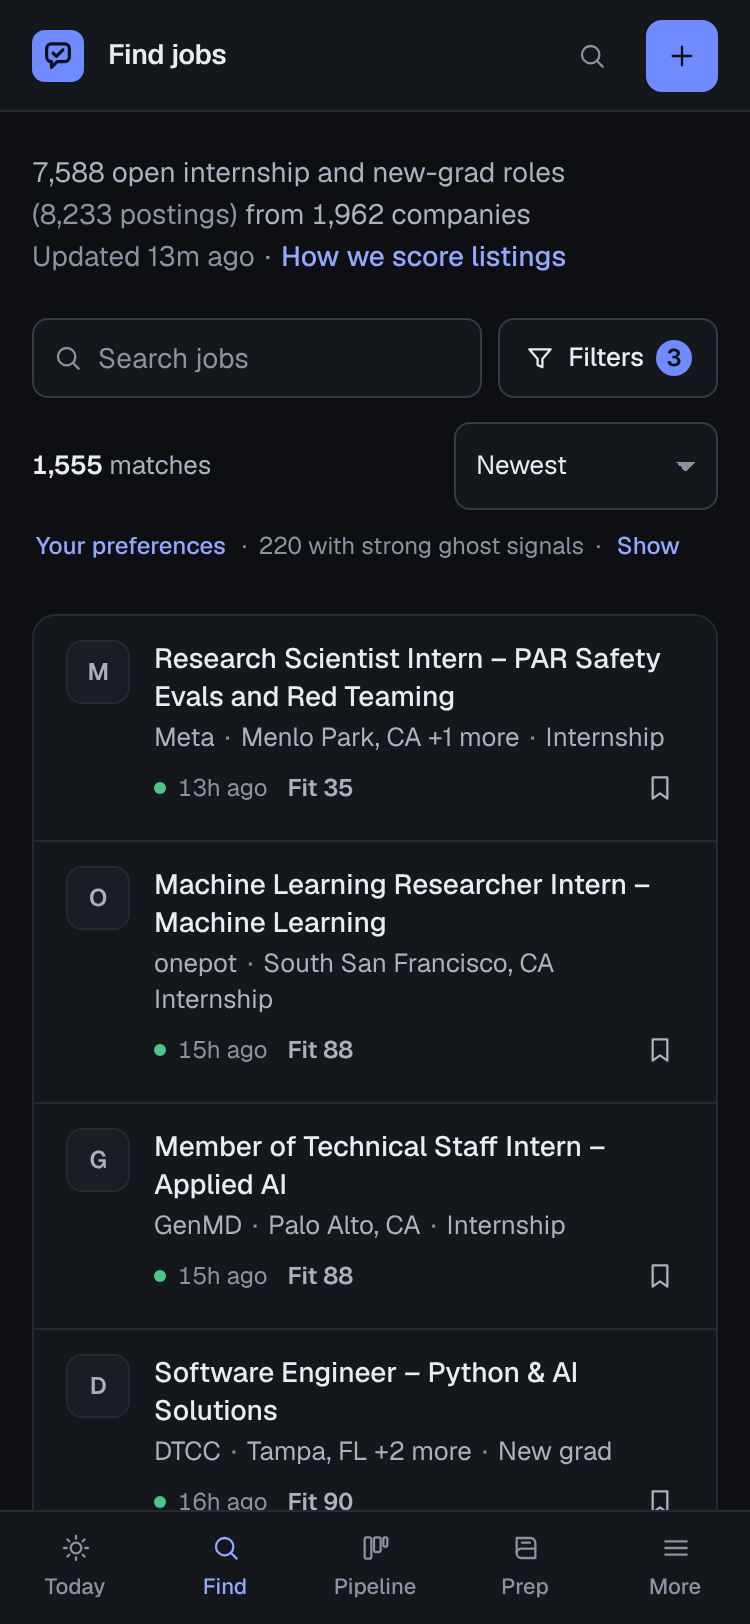
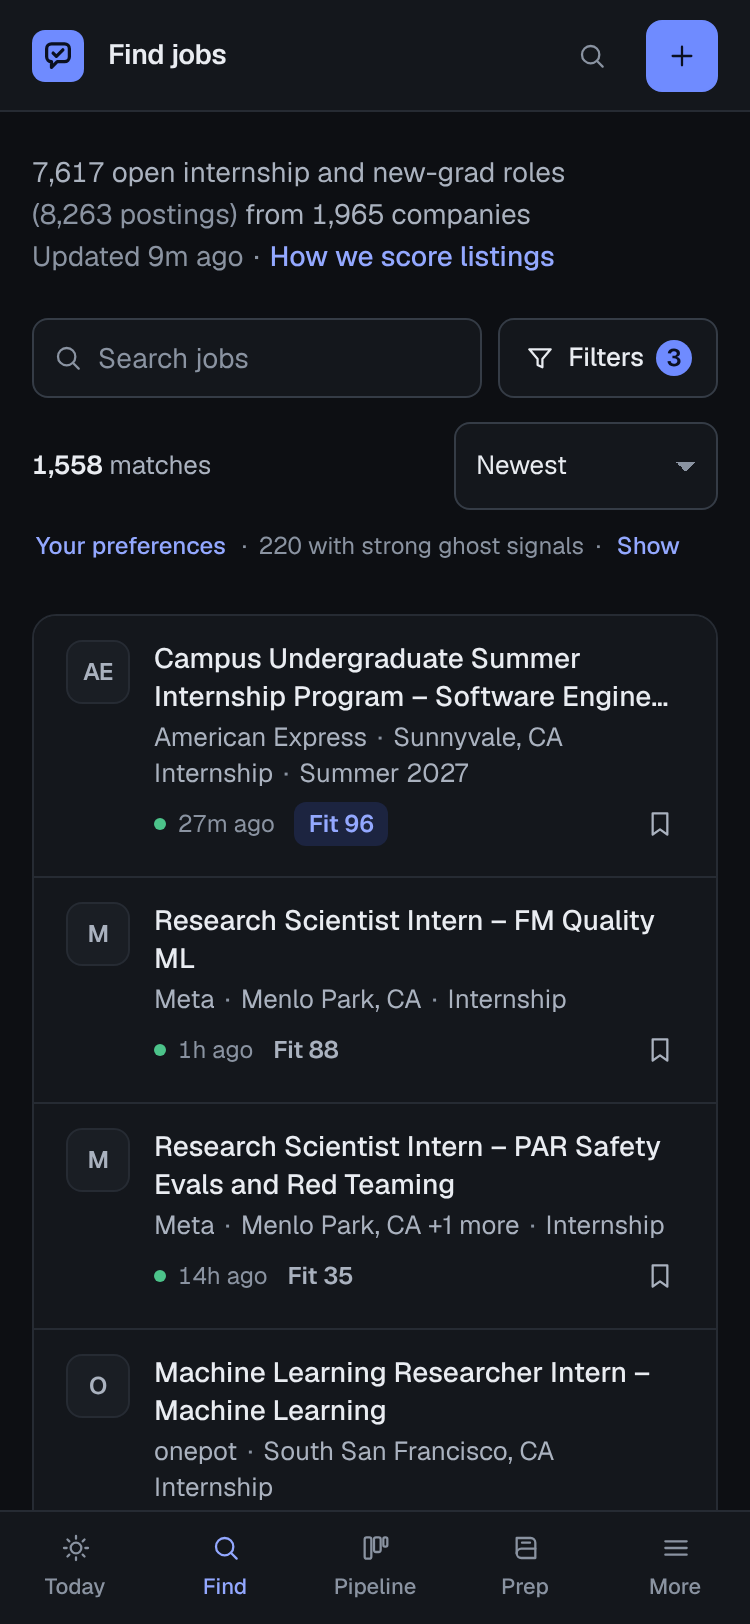
Final morning report
Claude-Session: https://claude.ai/code/session_01H1Qu2kyCjTtwxKKq2JxVsv

diff --git a/report/out/index.html b/report/out/index.html
@@ -93,7 +93,7 @@ ul.plain { margin: 0; padding-left: 18px; color: var(--fg-2); display: flex; fle
   <header class="hero">
     <div class="brand"><svg width="26" height="26" viewBox="0 0 32 32" aria-hidden="true"><rect width="32" height="32" rx="8" fill="var(--accent)"/><path d="M9 11.5a3 3 0 0 1 3-3h8a3 3 0 0 1 3 3v5a3 3 0 0 1-3 3h-4.5L12 23v-3.5a3 3 0 0 1-3-3z" fill="none" stroke="#fff" stroke-width="2" stroke-linejoin="round"/><path d="m13 14.2 2 2 4-4" fill="none" stroke="#fff" stroke-width="2" stroke-linecap="round" stroke-linejoin="round"/></svg>Heardback</div>
     <span class="eyebrow">Night 1 · Nov 3 · 12:30–8:20 AM PT</span>
-    <h1>Heardback is live: 7,588 internship and new-grad roles, a ghost-job check on each, and a tracker that tells you what to do next.</h1>
+    <h1>Heardback is live: 7,617 internship and new-grad roles, a ghost-job check on each, and a tracker that tells you what to do next.</h1>
     <div class="cta">
       <a class="btn" href="https://claude.ai/artifact/CUYnHDx5AYEtoPjDxxVobm" target="_blank" rel="noopener">Open Heardback</a>
     </div>
@@ -113,7 +113,7 @@ ul.plain { margin: 0; padding-left: 18px; color: var(--fg-2); display: flex; fle
   <section>
     <h2>What it does now</h2>
     <ol class="lines">
-      <li><span class="n">01</span><span><b>Real roles.</b> 7,588 open internship and new-grad roles from 1,962 companies, each linking to the employer's own application page. Refreshed 7:30 AM.</span></li>
+      <li><span class="n">01</span><span><b>Real roles.</b> 7,617 open internship and new-grad roles from 1,965 companies, each linking to the employer's own application page. Refreshed 8:08 AM PT.</span></li>
       <li><span class="n">02</span><span><b>A ghost-job check on every listing,</b> with the exact reasons: how long it's been up, how often it was posted and closed before, how many cities it's blasted across, and how fast this company usually closes roles.</span></li>
       <li><span class="n">03</span><span><b>A pipeline for every application and interview round.</b> Paste a recruiter email and it logs itself: new application, stage move or a scheduled round.</span></li>
       <li><span class="n">04</span><span><b>A Today view</b> that says what to do: prep for tomorrow's round, send the thank-you note, follow up, notice a posting that was taken down, or call it ghosted.</span></li>
@@ -125,8 +125,8 @@ ul.plain { margin: 0; padding-left: 18px; color: var(--fg-2); display: flex; fle
   <section>
     <h2>Numbers</h2>
     <div class="stats">
-      <div><b>7,588</b><span>open roles</span></div>
-      <div><b>859</b><span>with strong ghost signals</span></div>
+      <div><b>7,617</b><span>open roles</span></div>
+      <div><b>860</b><span>with strong ghost signals</span></div>
       <div><b>2,428</b><span>automated checks passing</span></div>
       <div><b>9.2</b><span>design score (from 6.3)</span></div>
     </div>
@@ -155,7 +155,7 @@ ul.plain { margin: 0; padding-left: 18px; color: var(--fg-2); display: flex; fle
 <div class="wrap">
   <section>
     <h2>Tonight, cycle by cycle</h2>
-    <details class="tl-wrap"><summary>19 versions, 12:30 to 8:20 AM</summary>
+    <details class="tl-wrap"><summary>20 versions, 12:30 to 8:20 AM</summary>
     <ol class="tl">
       <li><time>12:30 AM</time><div><b>Setup and platform limits</b><p>Verified what an Artifact page can and can&#x27;t do, found that this environment blocks the job-board APIs, and found a reachable real data source. Renamed the app from Ghosted to Heardback.</p></div></li>
       <li><time>12:45 AM</time><div><b>Foundations</b><p>Design system (Geist, cool neutrals, one cobalt accent, full dark mode), app shell, command palette, local-first store, nudges engine, data pipeline with ghost signals, competitor scan.</p></div></li>
@@ -177,6 +177,7 @@ ul.plain { margin: 0; padding-left: 18px; color: var(--fg-2); display: flex; fle
       <li><time>7:28 AM</time><div><b>v16: interview day</b><p>A fourth usability test walked through interview day. A Next up row pins the next round with Open notes and Join; rounds get a Where field filled from invite emails; Prep shows your notes on the company; mock answers and practice outlines save to notes; honest calendar states.</p></div></li>
       <li><time>7:45 AM</time><div><b>v17: final build</b><p>Final design check (9.2, ship) fixes; job data refreshed at 7:30 AM; end-to-end 2,428 / 2,428, axe clean, zero console errors at every width and theme.</p></div></li>
       <li><time>7:53 AM</time><div><b>v18–v19: last spec gap</b><p>Company reply data shows where people most often stop hearing back (drop-off by stage); round names consistent everywhere.</p></div></li>
+      <li><time>8:18 AM</time><div><b>v20: final</b><p>Job data refreshed at 8:08 AM (8,263 postings). End-to-end 2,428 / 2,428 on the final build; zero console errors at every width and theme.</p></div></li>
     </ol>
     </details>
     <p style="margin-top:10px">Full detail: CHANGELOG.md in the repo bundle below.</p>

diff --git a/report/index.html b/report/index.html
@@ -113,7 +113,7 @@ ul.plain { margin: 0; padding-left: 18px; color: var(--fg-2); display: flex; fle
   <section>
     <h2>What it does now</h2>
     <ol class="lines">
-      <li><span class="n">01</span><span><b>Real roles.</b> __JOBS__ open internship and new-grad roles from __COMPANIES__ companies, each linking to the employer's own application page. Refreshed 7:30 AM.</span></li>
+      <li><span class="n">01</span><span><b>Real roles.</b> __JOBS__ open internship and new-grad roles from __COMPANIES__ companies, each linking to the employer's own application page. Refreshed 8:08 AM PT.</span></li>
       <li><span class="n">02</span><span><b>A ghost-job check on every listing,</b> with the exact reasons: how long it's been up, how often it was posted and closed before, how many cities it's blasted across, and how fast this company usually closes roles.</span></li>
       <li><span class="n">03</span><span><b>A pipeline for every application and interview round.</b> Paste a recruiter email and it logs itself: new application, stage move or a scheduled round.</span></li>
       <li><span class="n">04</span><span><b>A Today view</b> that says what to do: prep for tomorrow's round, send the thank-you note, follow up, notice a posting that was taken down, or call it ghosted.</span></li>

diff --git a/MORNING_REPORT.md b/MORNING_REPORT.md
@@ -4,7 +4,7 @@
 **This report as a page:** https://claude.ai/artifact/UbZ4zpWbMQZYFJsDEsA8uT
 
 ## What Heardback does
-1. **Real roles:** 7,600 open internship and new-grad roles (8,245 postings, identical repeats shown once) from 1,966 companies, each linking to the employer's own application page.
+1. **Real roles:** 7,617 open internship and new-grad roles (8,263 postings, identical repeats shown once) from 1,966 companies, each linking to the employer's own application page.
 2. **A ghost-job check on every listing,** with the reasons: age, close-and-repost cycles, location blasts and the company's usual time to close. Strong-signal listings are hidden by default, with an honest count.
 3. **A pipeline for every application and interview round.** Paste a recruiter email and it logs itself.
 4. **A Today view** that says what to do: confirm and prep interviews, send thank-yous, follow up, notice taken-down postings, call it ghosted.
@@ -27,6 +27,7 @@
 - Every published version had zero console errors and no horizontal overflow at 375 / 768 / 1440, light and dark.
 
 ## Timeline
+- Final build: v20 at 8:18 AM PT, job data refreshed 8:08 AM.
 - **12:30 AM, Setup and platform limits:** Verified what an Artifact page can and can't do, found that this environment blocks the job-board APIs, and found a reachable real data source. Renamed the app from Ghosted to Heardback.
 - **12:45 AM, Foundations:** Design system (Geist, cool neutrals, one cobalt accent, full dark mode), app shell, command palette, local-first store, nudges engine, data pipeline with ghost signals, competitor scan.
 - **1:05 AM, v1: every screen:** Four agents built Find, Pipeline, Today/Insights and Prep/Onboarding/Settings in parallel. First publish.
